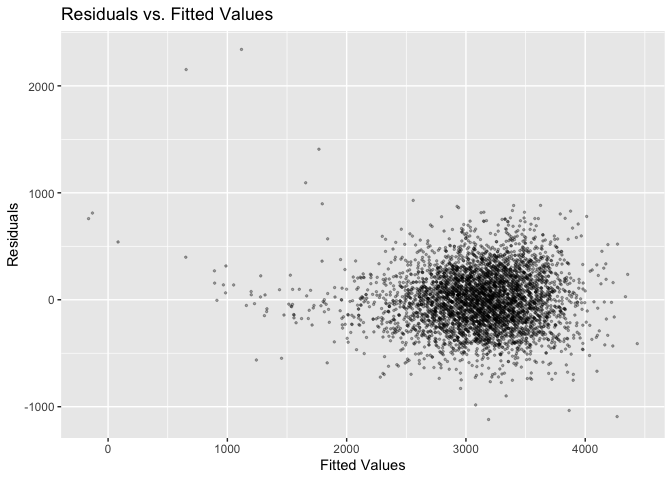
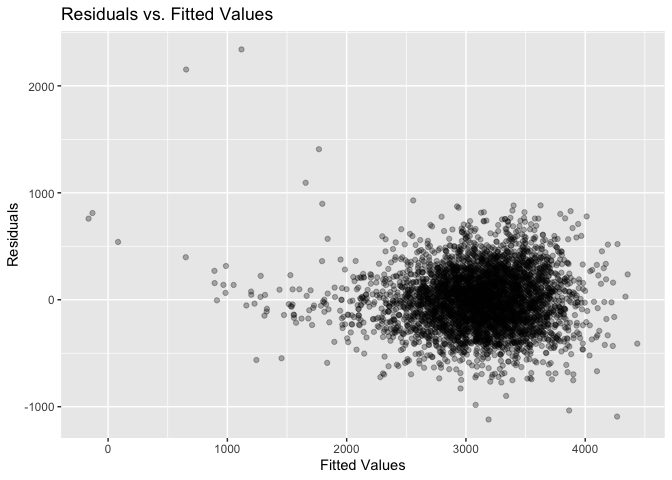
Solution for all Problems

Changed region(s): [[0.3125, 0.4062, 0.9375, 0.8125], [0.6562, 0.4062, 0.6875, 0.4375], [0.125, 0.4375, 0.1562, 0.4688]]

diff --git a/p8105_hw6_xg2451.md b/p8105_hw6_xg2451.md
@@ -351,7 +351,7 @@ birthweight_data |>
   modelr::add_predictions(my_model) |> 
   modelr::add_residuals(my_model) |> 
   ggplot(aes(x = pred, y = resid)) + 
-  geom_point(size = 0.5, alpha = 0.3) + 
+  geom_point(alpha = 0.3) + 
   labs(title = "Residuals vs. Fitted Values",
        x = "Fitted Values",
        y = "Residuals") 
